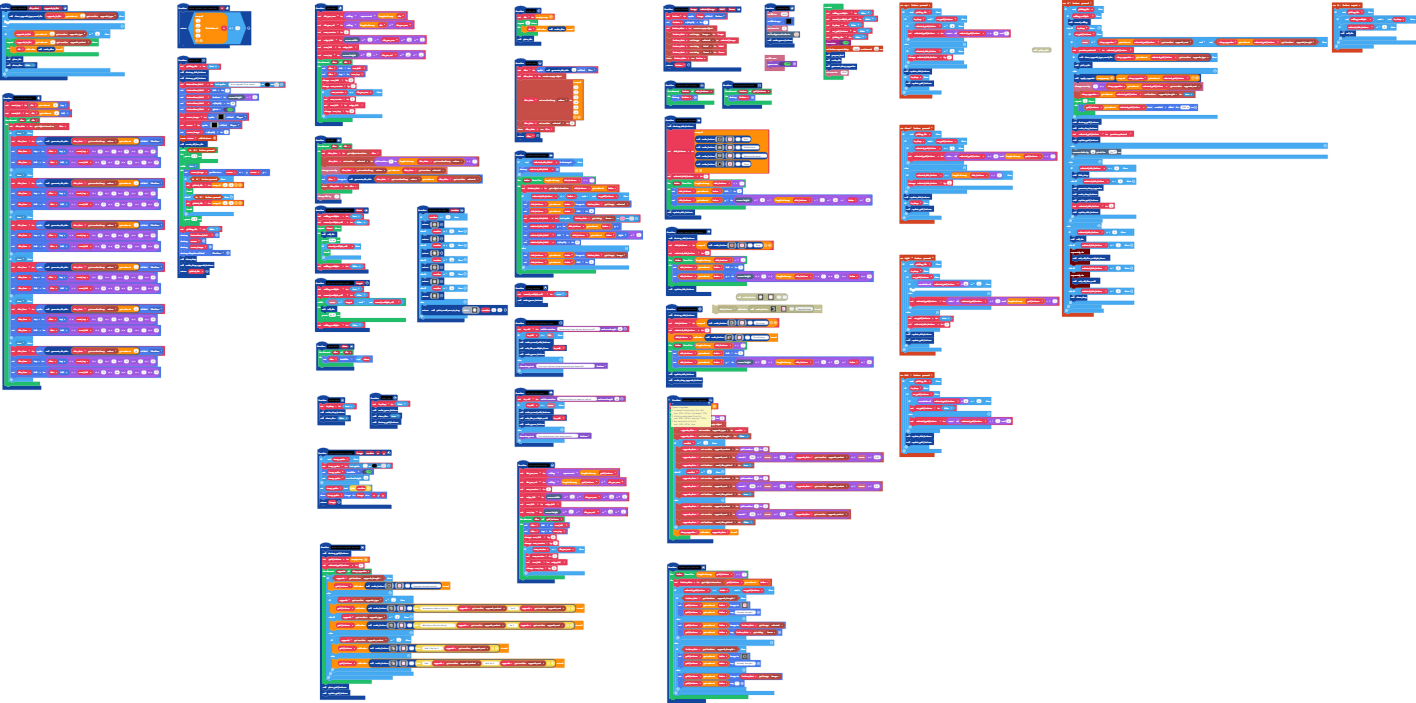
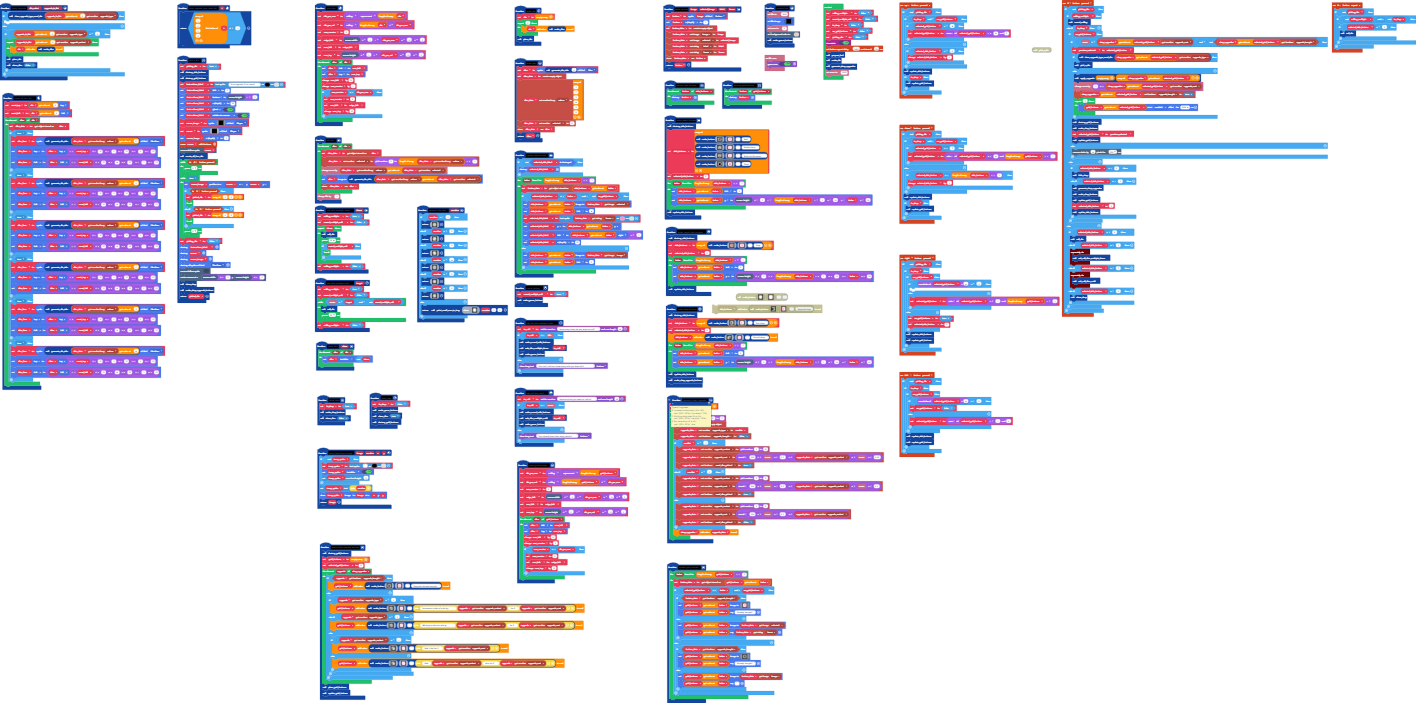
Have camera follow cursor in select die face dialog

Changed region(s): [[0.1243, 0.1494, 0.1864, 0.4481]]

diff --git a/main.ts b/main.ts
@@ -307,10 +307,12 @@ function pick_a_die () {
     instructions_label.bottom = scene.screenHeight() - 2
     instructions_label.z = 10
     instructions_label.setFlag(SpriteFlag.Ghost, true)
+    instructions_label.setFlag(SpriteFlag.RelativeToCamera, true)
     cursor_image = sprites.create(assets.image`cursor_image`, SpriteKind.Player)
     cursor = sprites.create(assets.image`cursor`, SpriteKind.Player)
     cursor_image.z = 2
     controller.moveSprite(cursor)
+    scene.cameraFollowSprite(cursor)
     create_all_face_die()
     while (controller.A.isPressed()) {
         pause(0)
@@ -331,6 +333,8 @@ function pick_a_die () {
     cursor.destroy()
     cursor_image.destroy()
     sprites.destroyAllSpritesOfKind(SpriteKind.DiceFace)
+    scene.cameraFollowSprite(null)
+    scene.centerCameraAt(scene.screenWidth() / 2, scene.screenHeight() / 2)
     show_shop()
     make_shop_upgrade_buttons()
     return picked_die
